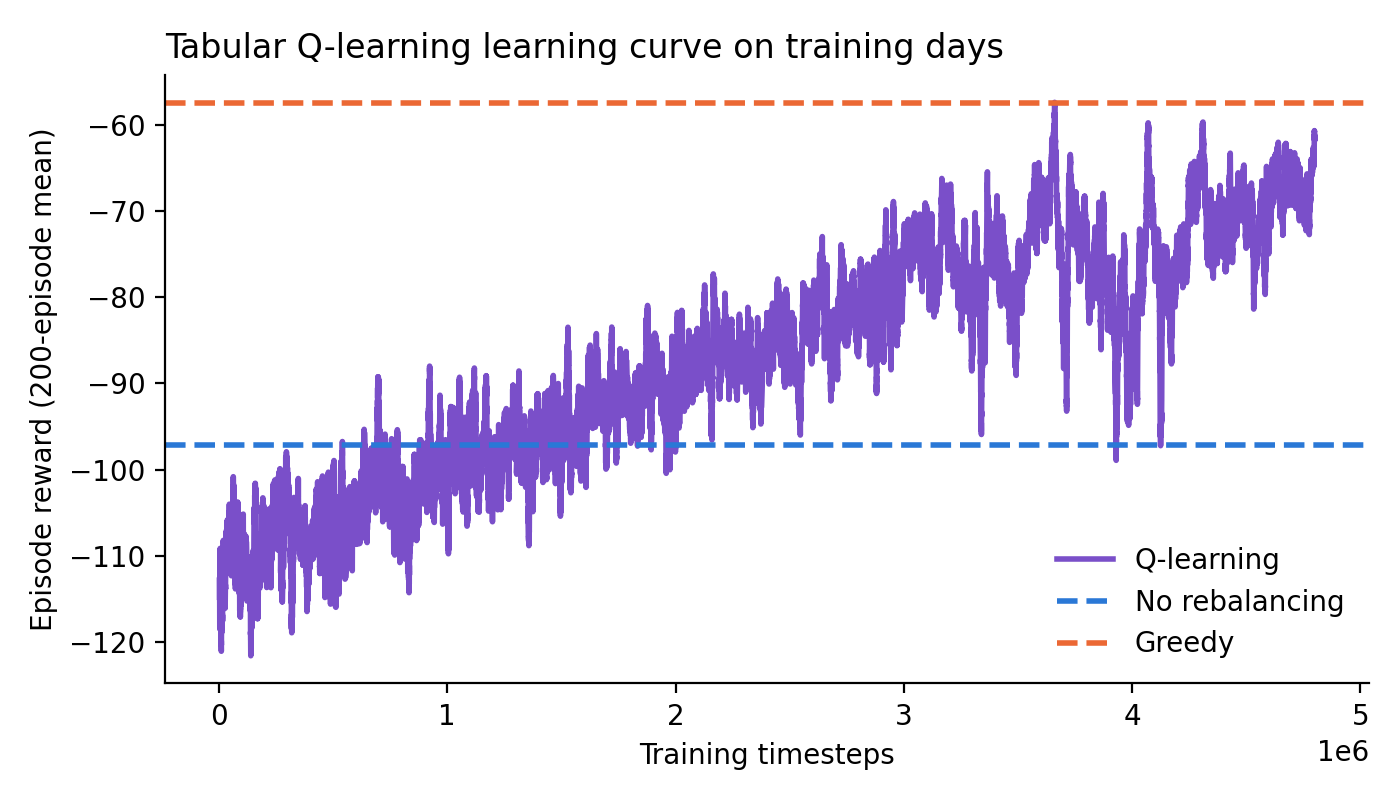
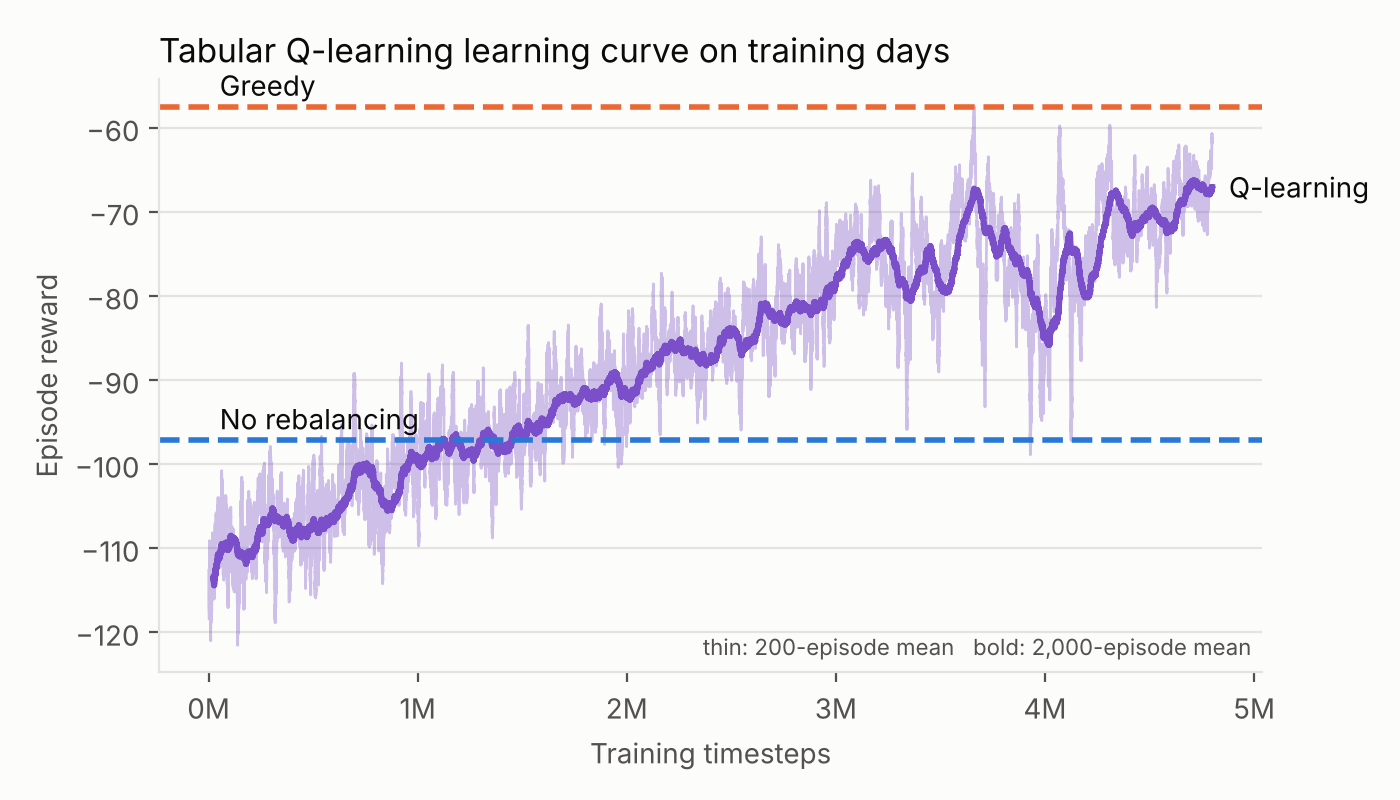
Q-Learning trend line

diff --git a/train_qlearning.py b/train_qlearning.py
@@ -117,22 +117,53 @@ def train(agent, episodes, alpha, gamma, eps_start, eps_end, eps_fraction, seed)
 
 
 def plot_curve(rewards, baselines_train, path):
+    """Same look as plot_results.py's DQN curve, plus a longer-window trend line."""
     import matplotlib
     matplotlib.use("Agg")
     import matplotlib.pyplot as plt
-    smooth = pd.Series(rewards).rolling(200, min_periods = 50).mean()
-    fig, ax = plt.subplots(figsize = (7, 4))
-    ax.plot(np.arange(len(rewards)) * BikeRebalanceEnv.STEPS_PER_DAY, smooth, color = "#7a4fc9", linewidth = 2, label = "Q-learning")
-    for (name, value), color in zip(baselines_train.items(), ["#2a78d6", "#eb6834"]):
-        ax.axhline(value, color = color, linestyle = "--", linewidth = 2, label = name)
-    ax.set_xlabel("Training timesteps")
-    ax.set_ylabel("Episode reward (200-episode mean)")
-    ax.set_title("Tabular Q-learning learning curve on training days", loc = "left")
-    ax.legend(frameon = False)
-    for side in ["top", "right"]:
-        ax.spines[side].set_visible(False)
+    import matplotlib.ticker
+    # same look as plot_results.py (copied so this script does not need stable-baselines3)
+    COLORS = {"No rebalancing": "#2a78d6", "Greedy": "#eb6834"}
+    INK, MUTED, GRID, SURFACE = "#0b0b0b", "#52514e", "#e4e3df", "#fcfcfb"
+
+    def style(ax):
+        ax.set_facecolor(SURFACE)
+        for side in ["top", "right"]:
+            ax.spines[side].set_visible(False)
+        for side in ["left", "bottom"]:
+            ax.spines[side].set_color(GRID)
+        ax.tick_params(colors = MUTED)
+        ax.yaxis.grid(True, color = GRID, linewidth = 0.8)
+        ax.set_axisbelow(True)
+
+    steps = np.arange(1, len(rewards) + 1) * BikeRebalanceEnv.STEPS_PER_DAY
+    r = pd.Series(rewards)
+    short = r.rolling(200, min_periods = 50).mean()
+    trend = r.rolling(2000, min_periods = 500).mean()
+
+    fig, ax = plt.subplots(figsize = (7, 4), facecolor = SURFACE)
+    style(ax)
+    ax.plot(steps, short, color = "#7a4fc9", linewidth = 1, alpha = 0.35)
+    ax.plot(steps, trend, color = "#7a4fc9", linewidth = 2.2)
+    ax.annotate("Q-learning", (steps[-1], trend.iloc[-1]), xytext = (6, 0), textcoords = "offset points",
+                va = "center", color = INK)
+    for name, value in baselines_train.items():
+        ax.axhline(value, color = COLORS[name], linewidth = 2, linestyle = "--")
+        ax.annotate(name, (0, value), xytext = (4, 4), textcoords = "offset points", color = INK)
+    ax.xaxis.set_major_formatter(matplotlib.ticker.FuncFormatter(lambda v, _: f"{v / 1e6:.0f}M"))
+    ax.set_xlabel("Training timesteps", color = MUTED)
+    ax.set_ylabel("Episode reward", color = MUTED)
+    ax.set_title("Tabular Q-learning learning curve on training days", color = INK, loc = "left")
+    ax.text(0.99, 0.02, "thin: 200-episode mean   bold: 2,000-episode mean", transform = ax.transAxes,
+            ha = "right", va = "bottom", color = MUTED, fontsize = 8)
     fig.tight_layout()
     fig.savefig(path, dpi = 200)
+
+
+def baseline_rewards(env):
+    return {n: -(r[:, 1] + env.distance_penalty * r[:, 3]).mean()
+            for n, r in [("No rebalancing", evaluate(no_rebalance, split = "train")),
+                         ("Greedy", evaluate(greedy, split = "train"))]}
 
 
 def main():
@@ -147,16 +178,23 @@ def main():
     p.add_argument("--n-zones", type = int, default = N_ZONES)
     p.add_argument("--split", default = "test", help = "days to evaluate on: test, or train for tuning")
     p.add_argument("--plot", action = "store_true")
+    p.add_argument("--plot-only", action = "store_true", help = "redraw the figure from saved results, no training")
     args = p.parse_args()
 
     env = BikeRebalanceEnv(split = "train")
+    name = f"qlearning_seed{args.seed}"
+    if args.plot_only:
+        FIGURES.mkdir(exist_ok = True)
+        rewards = np.load(RESULTS / f"{name}.npz")["rewards"]
+        plot_curve(rewards, baseline_rewards(env), FIGURES / "qlearning_learning_curve.png")
+        return
+
     zones = make_zones(np.load(DEMAND)["station_ids"], args.n_zones)
     agent = ZoneQAgent(env, zones)
     rewards = train(agent, args.episodes, args.alpha, args.gamma,
                     args.eps_start, args.eps_end, args.eps_fraction, args.seed)
 
     RESULTS.mkdir(exist_ok = True)
-    name = f"qlearning_seed{args.seed}"
     np.savez_compressed(RESULTS / f"{name}.npz", q = agent.q, visits = agent.visits, zones = zones, rewards = rewards)
     with open(RESULTS / f"{name}_rewards.csv", "w", newline = "") as f:
         csv.writer(f).writerows([["episode", "reward"], *enumerate(rewards.round(2))])
@@ -168,10 +206,7 @@ def main():
 
     if args.plot:
         FIGURES.mkdir(exist_ok = True)
-        base = {n: -(r[:, 1] + env.distance_penalty * r[:, 3]).mean()
-                for n, r in [("No rebalancing", evaluate(no_rebalance, split = "train")),
-                             ("Greedy", evaluate(greedy, split = "train"))]}
-        plot_curve(rewards, base, FIGURES / "qlearning_learning_curve.png")
+        plot_curve(rewards, baseline_rewards(env), FIGURES / "qlearning_learning_curve.png")
 
 
 if __name__ == "__main__":
